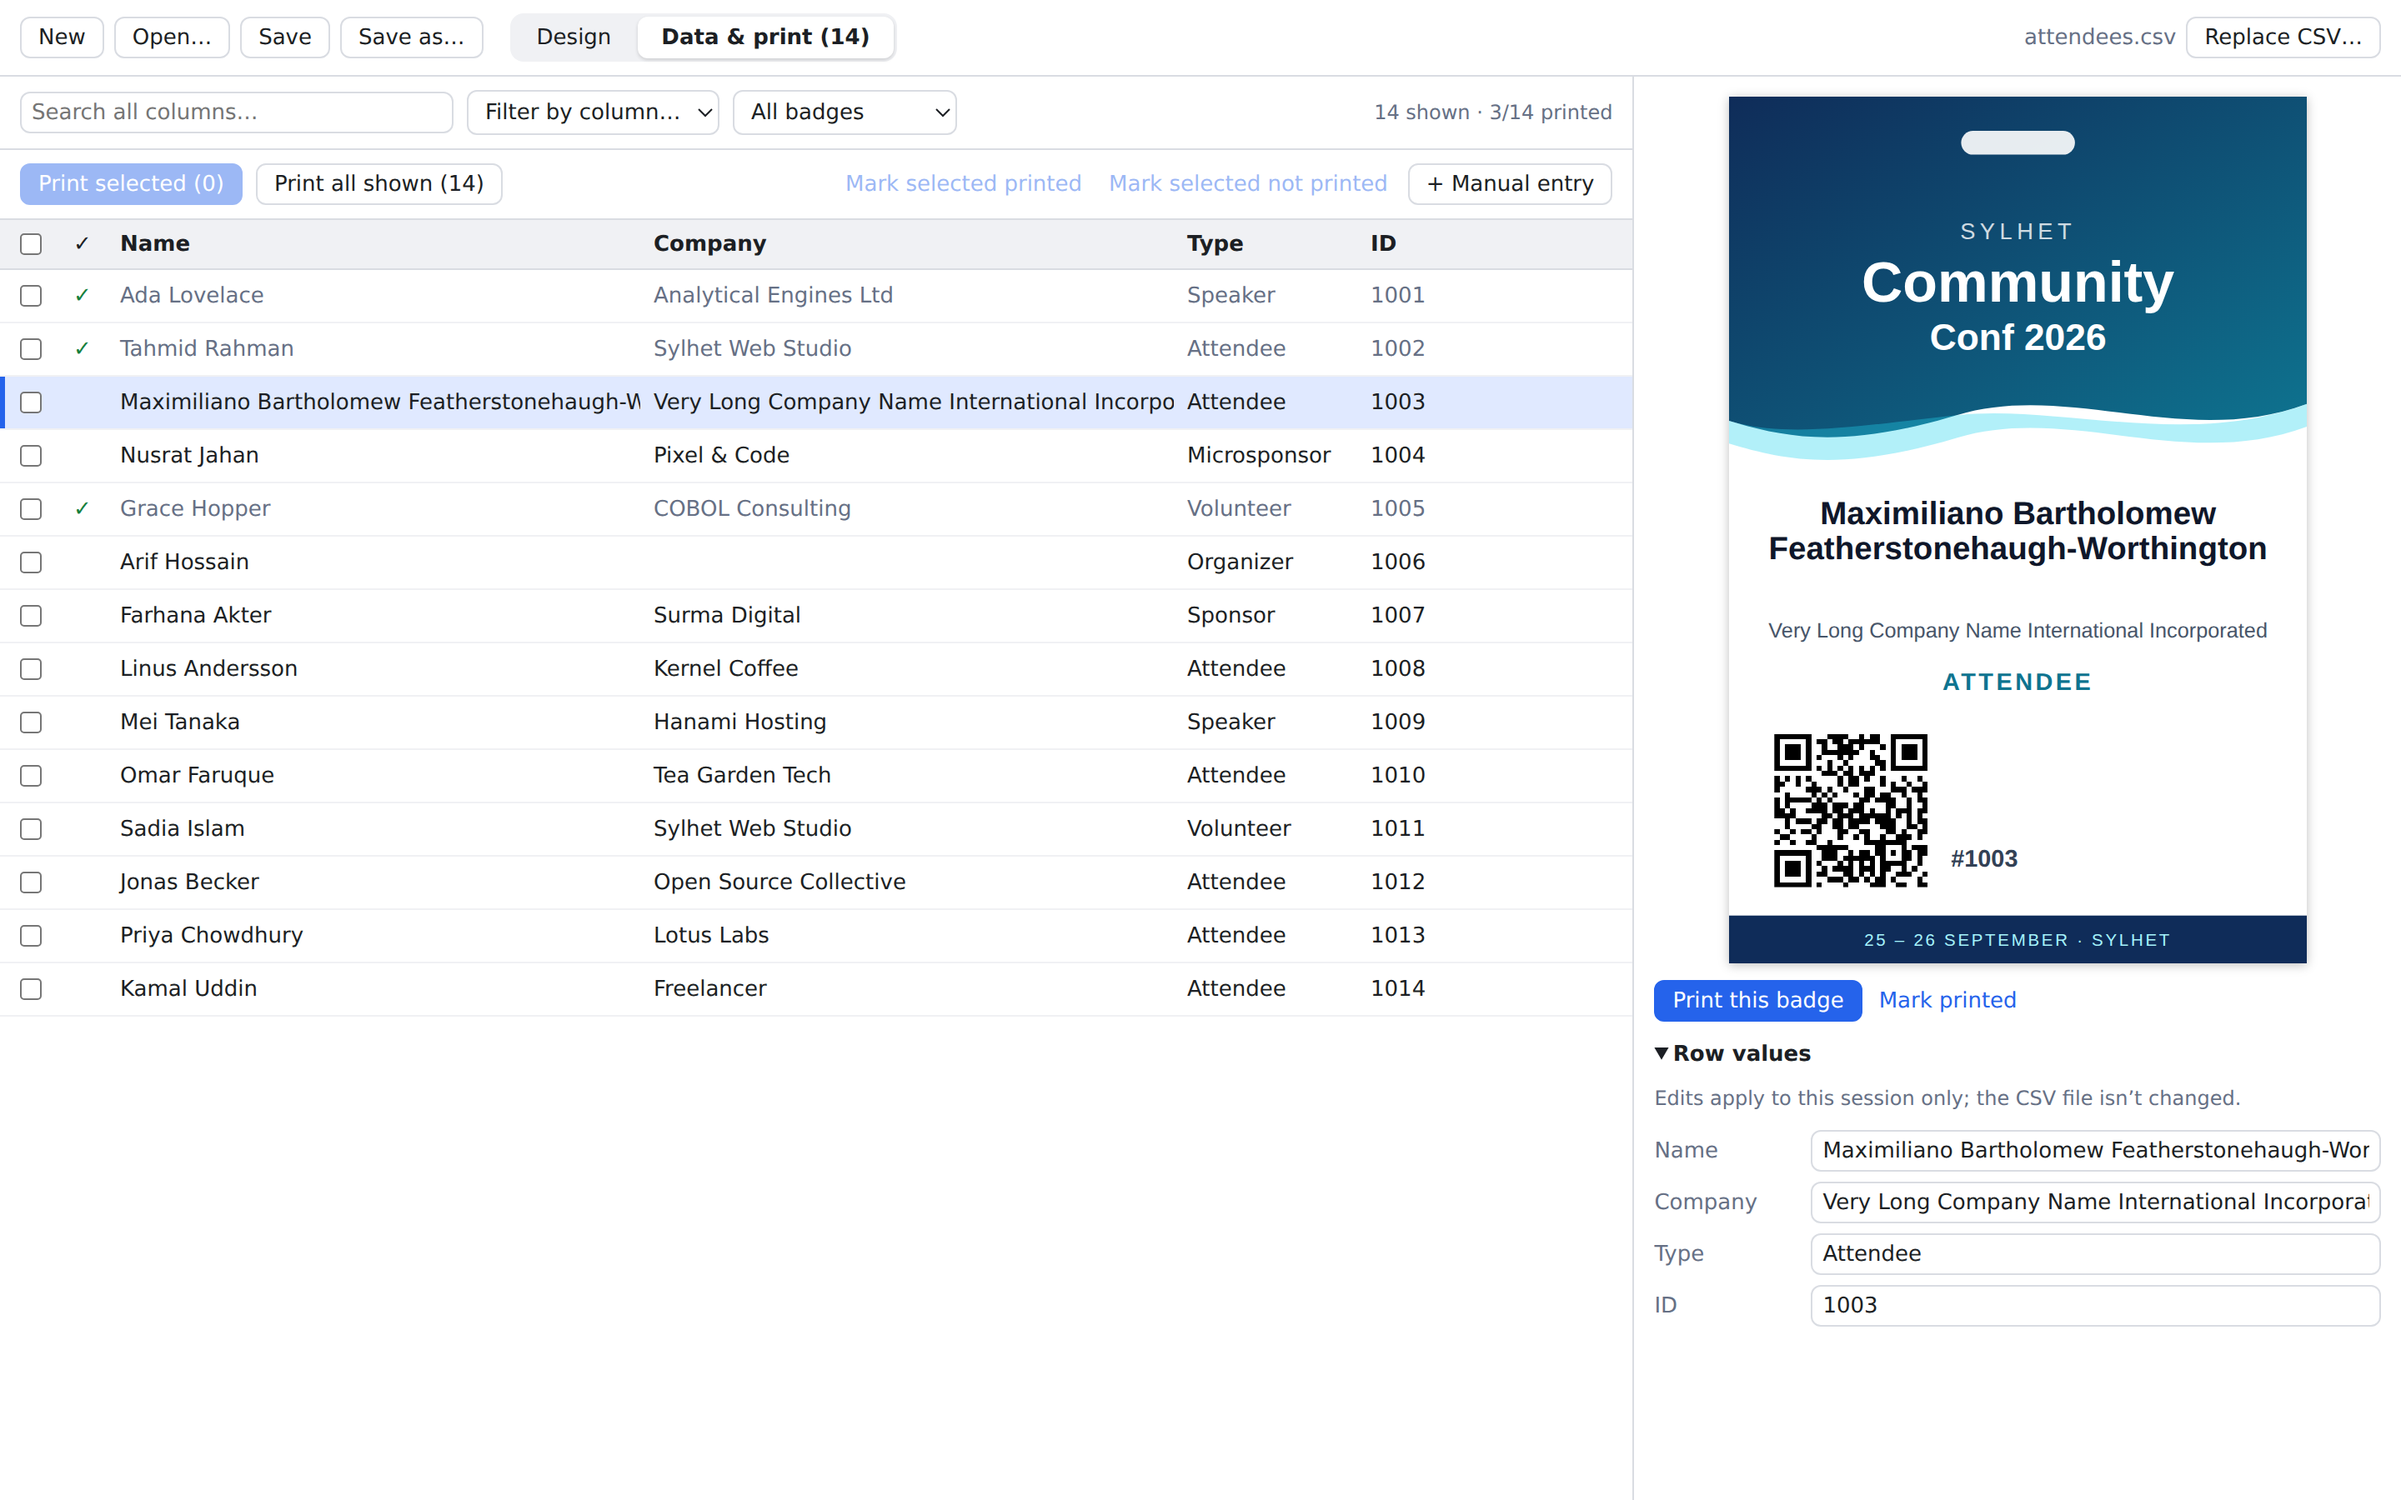
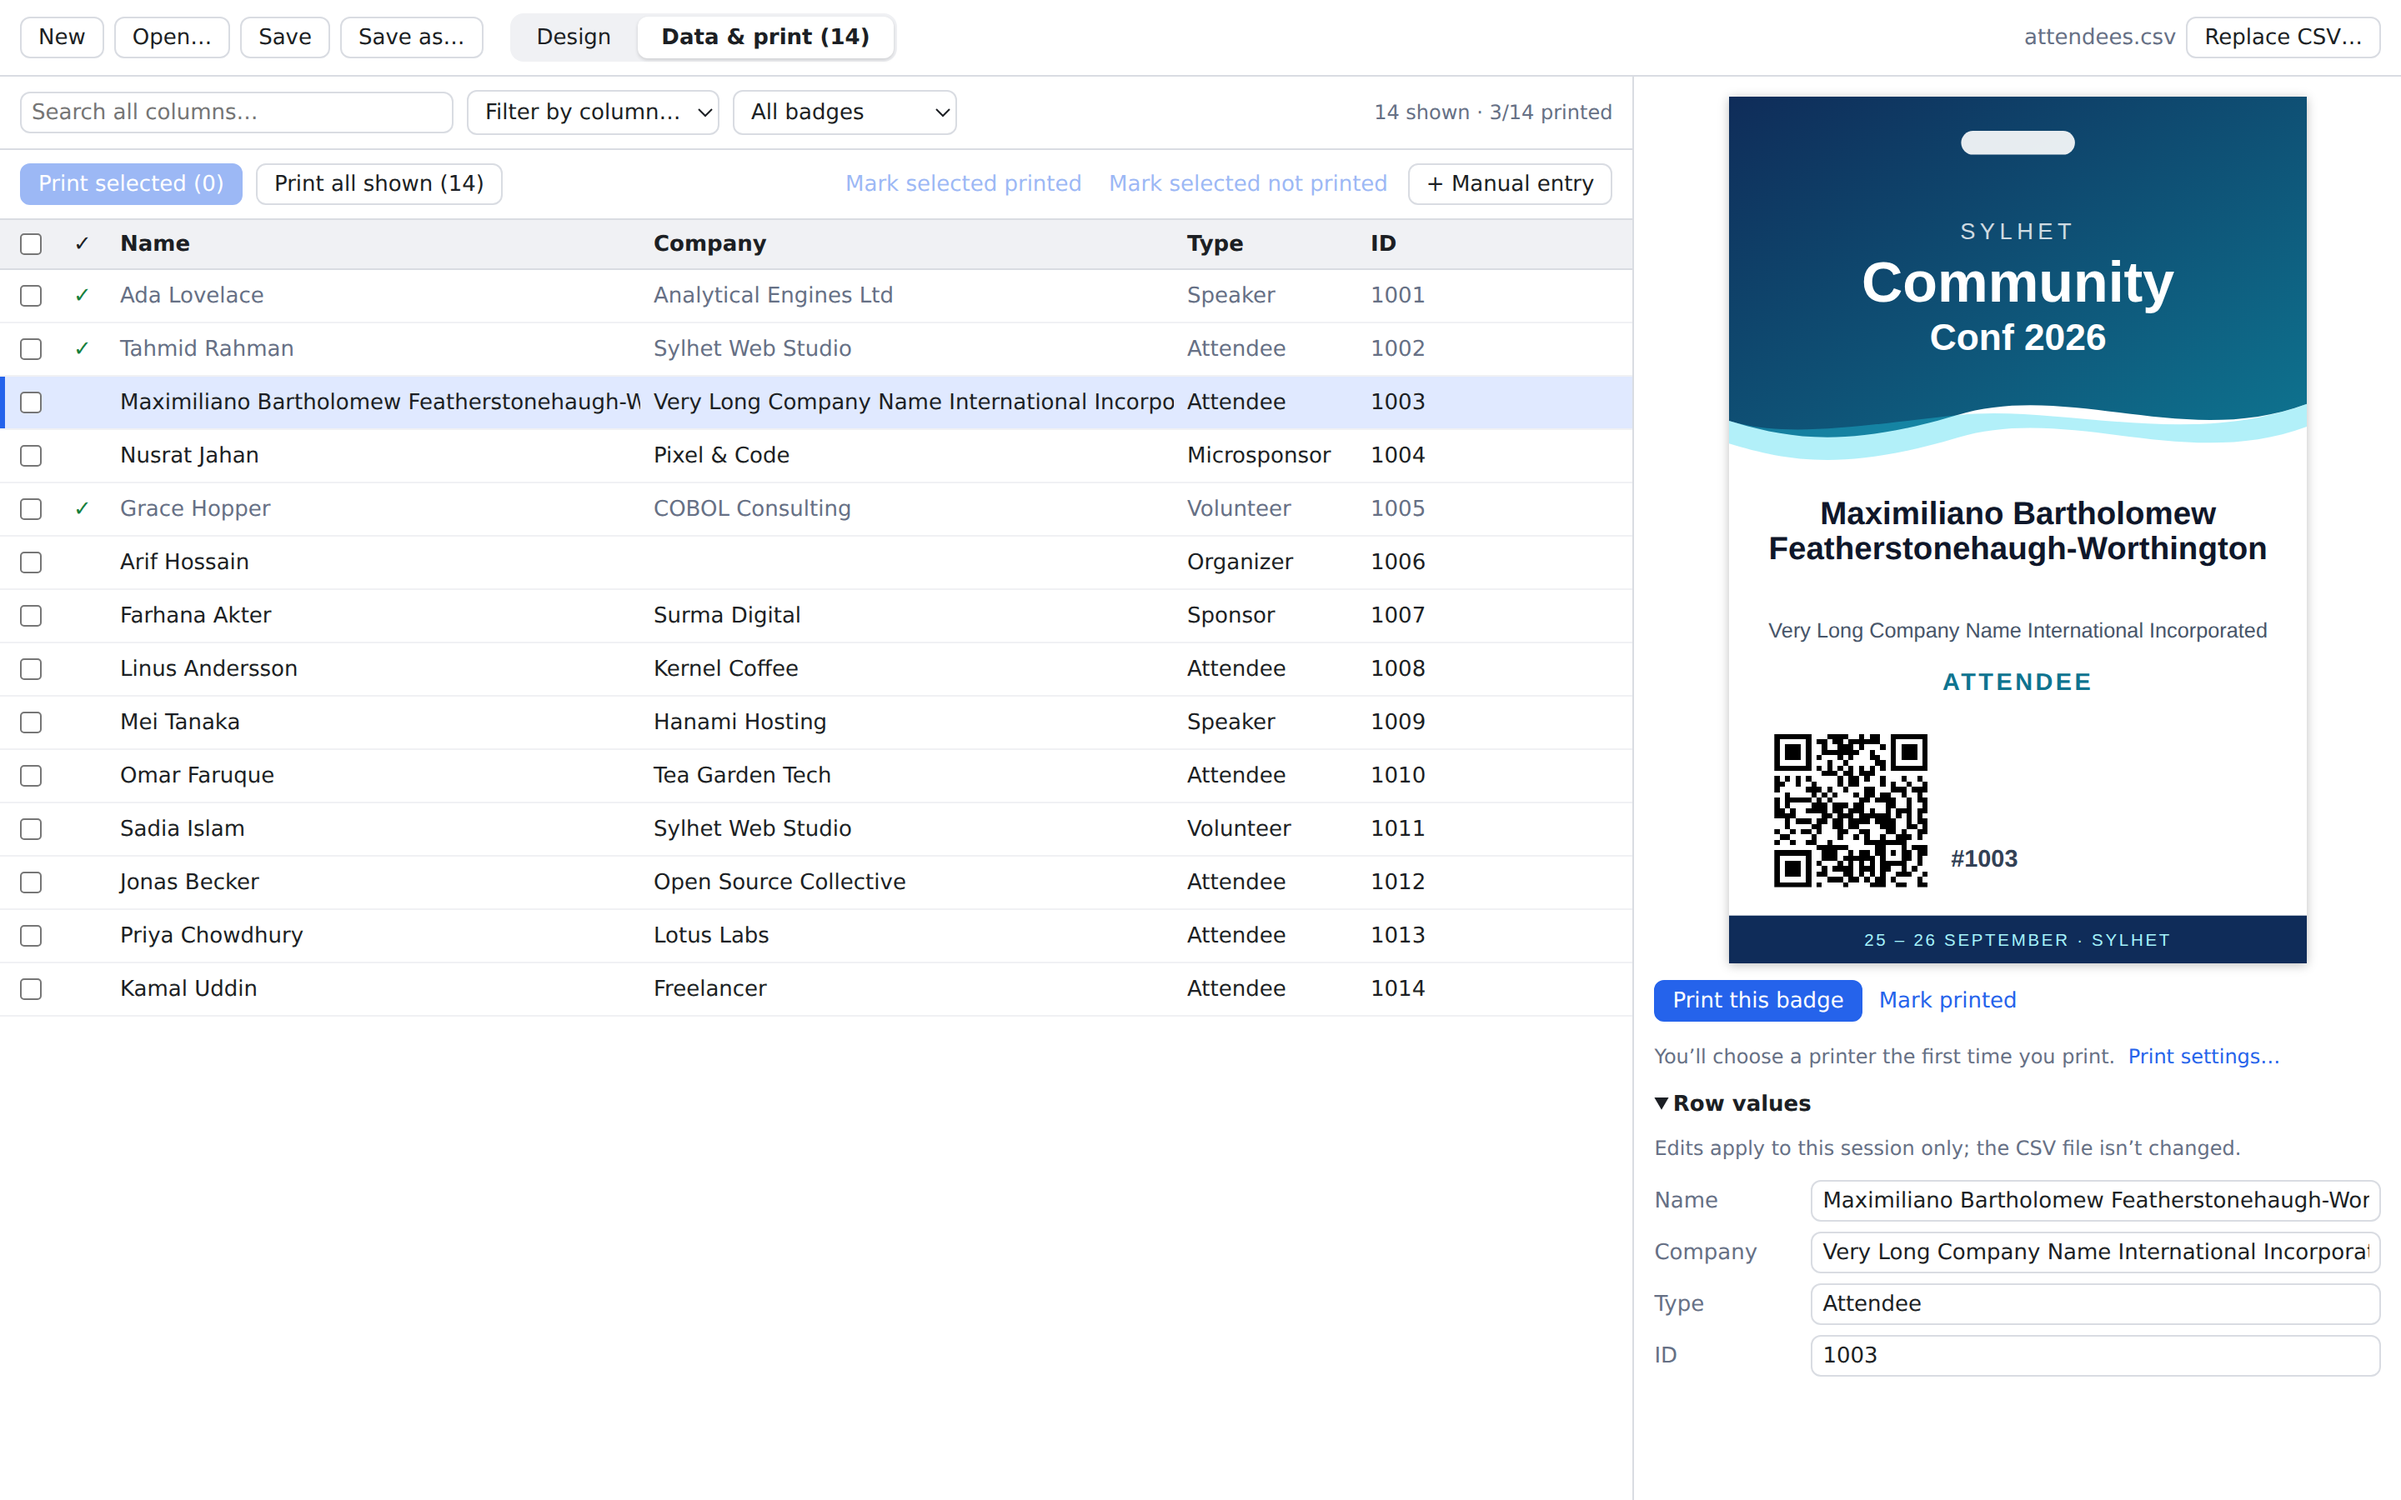
Show and change the quick-print printer; ad-hoc sign the macOS app
- The preview panel now says which printer "Print this badge" / Enter /
  double-click use, with a Change… link back to the print dialog
- The print dialog gets a Save settings button; Cancel no longer saves
- The first single-badge print explains that later ones skip the dialog
- macOS builds are ad-hoc signed so downloads open with the usual
  "unidentified developer" prompt instead of "damaged"
- README install notes; version 0.1.1

Claude-Session: https://claude.ai/code/session_01Asri9nP41wu2hcvfhoXe6p

Changed region(s): [[0.6875, 0.6844, 1.0, 0.9333]]

diff --git a/src/renderer/src/data/PreviewPanel.tsx b/src/renderer/src/data/PreviewPanel.tsx
@@ -2,7 +2,7 @@
 import { useLayoutEffect, useRef, useState } from 'react'
 import { Badge } from '@/badge/Badge'
 import { useStore } from '@/store/store'
-import { loadSettings, startPrint } from '@/print/printing'
+import { canQuickPrint, quickPrint, usePrintSettings } from '@/print/printing'
 
 const PX_PER_MM = 96 / 25.4
 
@@ -15,6 +15,7 @@ export default function PreviewPanel({ onPrint }: { onPrint: (keys: string[], la
   const printedAt = useStore((s) => (row ? s.printed[row.key] : undefined))
   const [frontOver, setFrontOver] = useState<string[]>([])
   const [backOver, setBackOver] = useState<string[]>([])
+  const printSettings = usePrintSettings((s) => s.settings)
   const [width, setWidth] = useState(360)
   const ref = useRef<HTMLDivElement>(null)
 
@@ -42,11 +43,7 @@ export default function PreviewPanel({ onPrint }: { onPrint: (keys: string[], la
     (id) => [...template.front.fields, ...template.back.layout.fields].find((f) => f.id === id)?.name ?? id
   )
 
-  const print = (): void => {
-    const settings = loadSettings()
-    if (settings.target === 'printer' && settings.printer) void startPrint([row.key], settings, true)
-    else onPrint([row.key], 'this badge')
-  }
+  const print = (): void => quickPrint(row.key, onPrint)
 
   return (
     <div className="preview-panel" ref={ref}>
@@ -92,6 +89,22 @@ export default function PreviewPanel({ onPrint }: { onPrint: (keys: string[], la
           </button>
         )}
       </div>
+      <p className="muted small print-target">
+        {canQuickPrint(printSettings) ? (
+          <>
+            Prints straight to <strong>{printSettings.printerLabel || printSettings.printer}</strong>
+            {printSettings.offset.x || printSettings.offset.y
+              ? ` (shifted ${printSettings.offset.x} mm, ${printSettings.offset.y} mm)`
+              : ''}{' '}
+            ·{' '}
+          </>
+        ) : (
+          'You’ll choose a printer the first time you print. '
+        )}
+        <button className="link" onClick={() => onPrint([row.key], 'this badge')}>
+          {canQuickPrint(printSettings) ? 'Change…' : 'Print settings…'}
+        </button>
+      </p>
 
       <details className="row-editor" open>
         <summary>Row values</summary>

diff --git a/src/renderer/src/print/PrintDialog.tsx b/src/renderer/src/print/PrintDialog.tsx
@@ -26,9 +26,17 @@ export default function PrintDialog({ keys, label, onClose }: { keys: string[]; 
 
   const patch = (p: Partial<PrintSettings>): void => setSettings((s) => ({ ...s, ...p }))
 
+  /** Settings with the chosen printer's display name, so it can be shown elsewhere. */
+  const labelled = (): PrintSettings => ({
+    ...settings,
+    printerLabel: printers?.find((p) => p.name === settings.printer)?.displayName ?? settings.printerLabel
+  })
+
   const go = async (): Promise<void> => {
-    if (await startPrint(keys, settings, mark)) onClose()
+    if (await startPrint(keys, labelled(), mark)) onClose()
   }
+
+  const single = keys.length === 1
 
   return (
     <div className="modal-backdrop" onMouseDown={onClose}>
@@ -98,8 +106,24 @@ export default function PrintDialog({ keys, label, onClose }: { keys: string[]; 
           <input type="checkbox" checked={mark} onChange={(e) => setMark(e.target.checked)} /> Mark as printed
         </label>
 
+        {single && settings.target === 'printer' && (
+          <p className="muted small">
+            From now on, <b>Print this badge</b>, <kbd>Enter</kbd> and double-click print straight to this printer.
+            Use <b>Change…</b> under the preview to come back here.
+          </p>
+        )}
+
         <footer className="modal-actions">
-          <button onClick={() => (saveSettings(settings), onClose())}>Cancel</button>
+          <button onClick={onClose}>Cancel</button>
+          <button
+            onClick={() => {
+              saveSettings(labelled())
+              onClose()
+            }}
+            title="Keep these settings without printing"
+          >
+            Save settings
+          </button>
           <button
             className="primary"
             disabled={keys.length === 0 || (settings.target === 'printer' && !settings.printer)}

diff --git a/src/renderer/src/print/printing.ts b/src/renderer/src/print/printing.ts
@@ -24,11 +24,30 @@ export function loadSettings(): PrintSettings {
 }
 
 export function saveSettings(s: PrintSettings): void {
+  usePrintSettings.setState({ settings: s })
   try {
     localStorage.setItem(SETTINGS_KEY, JSON.stringify(s))
   } catch {
     // Not fatal: settings just won't be remembered.
   }
+}
+
+/** The saved print settings, kept in a store so the UI updates when they change. */
+export const usePrintSettings = create<{ settings: PrintSettings }>(() => ({ settings: loadSettings() }))
+
+/** True once a printer is saved, so single badges can print without the dialog. */
+export function canQuickPrint(s: PrintSettings): boolean {
+  return s.target === 'printer' && !!s.printer
+}
+
+/**
+ * Prints one badge straight to the saved printer, or opens the print dialog when no
+ * printer has been chosen yet.
+ */
+export function quickPrint(key: string, openDialog: (keys: string[], label: string) => void): void {
+  const settings = usePrintSettings.getState().settings
+  if (canQuickPrint(settings)) void startPrint([key], settings, true)
+  else openDialog([key], 'this badge')
 }
 
 interface JobState {

diff --git a/src/renderer/src/data/DataView.tsx b/src/renderer/src/data/DataView.tsx
@@ -5,7 +5,7 @@ import type { DataRow } from '@/io/csv'
 import { openCsvAction } from '@/store/actions'
 import { useStore } from '@/store/store'
 import PrintDialog, { JobStatusBar } from '@/print/PrintDialog'
-import { loadSettings, startPrint } from '@/print/printing'
+import { quickPrint } from '@/print/printing'
 import PreviewPanel from './PreviewPanel'
 
 const ROW_HEIGHT = 32
@@ -152,10 +152,8 @@ function RowTable({ onPrint }: { onPrint: (keys: string[], label: string) => voi
   }
 
   const printOne = (r: DataRow): void => {
-    const settings = loadSettings()
     // Once a printer has been set up, printing a single badge is one keystroke.
-    if (settings.target === 'printer' && settings.printer) void startPrint([r.key], settings, true)
-    else onPrint([r.key], 'this badge')
+    quickPrint(r.key, onPrint)
   }
 
   const onKeyDown = (e: React.KeyboardEvent): void => {

diff --git a/src/shared/ipc.ts b/src/shared/ipc.ts
@@ -29,6 +29,8 @@ export interface PrintSettings {
   /** `printer` sends to a printer silently; `pdf` writes a PDF file. */
   target: 'printer' | 'pdf'
   printer: string
+  /** The printer's display name, for showing which printer quick prints go to. */
+  printerLabel?: string
   /** Badges per print job. Small batches keep printer and app memory low. */
   batchSize: number
   /** Pause between batches, giving the printer time to drain its buffer. */

diff --git a/README.md b/README.md
@@ -47,6 +47,15 @@ Design where each attendee's details go on your stock, load the attendee list, a
 - **Alignment shift**: nudge everything by fractions of a millimetre to line up with the pre-printed stock. The shift is remembered.
 - **Export to PDF** instead of printing, built from the same batches.
 
+## Install
+
+Download the installer for your system from the [latest release](https://github.com/haqadn/badge-printer/releases/latest). It runs on Windows 10 or later (64-bit), macOS on Apple Silicon, and 64-bit Linux.
+
+The installers aren't signed with a paid developer certificate yet, so the first launch shows a warning:
+
+- **Windows:** on the SmartScreen prompt, click **More info → Run anyway**.
+- **macOS:** after dragging the app to Applications, right-click it and choose **Open**, or go to **System Settings → Privacy & Security** and click **Open Anyway**.
+
 ## Try it with the example
 
 `examples/community-conf/` has a sample template (`community-conf.badge`), the stock design it was made for, and an attendee list (`attendees.csv`). Open the template with **Open…**, then load the CSV with **Load CSV…**.
